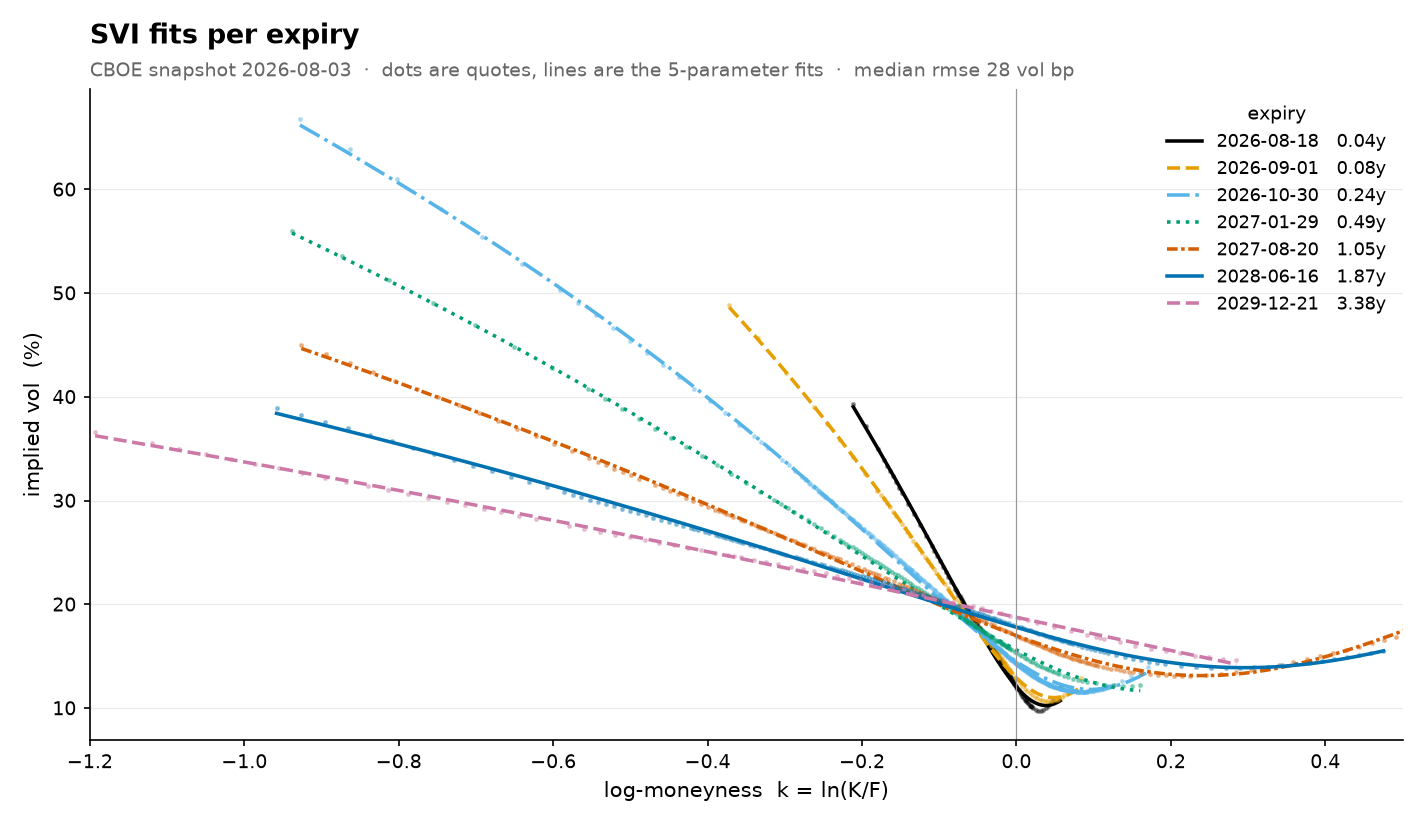
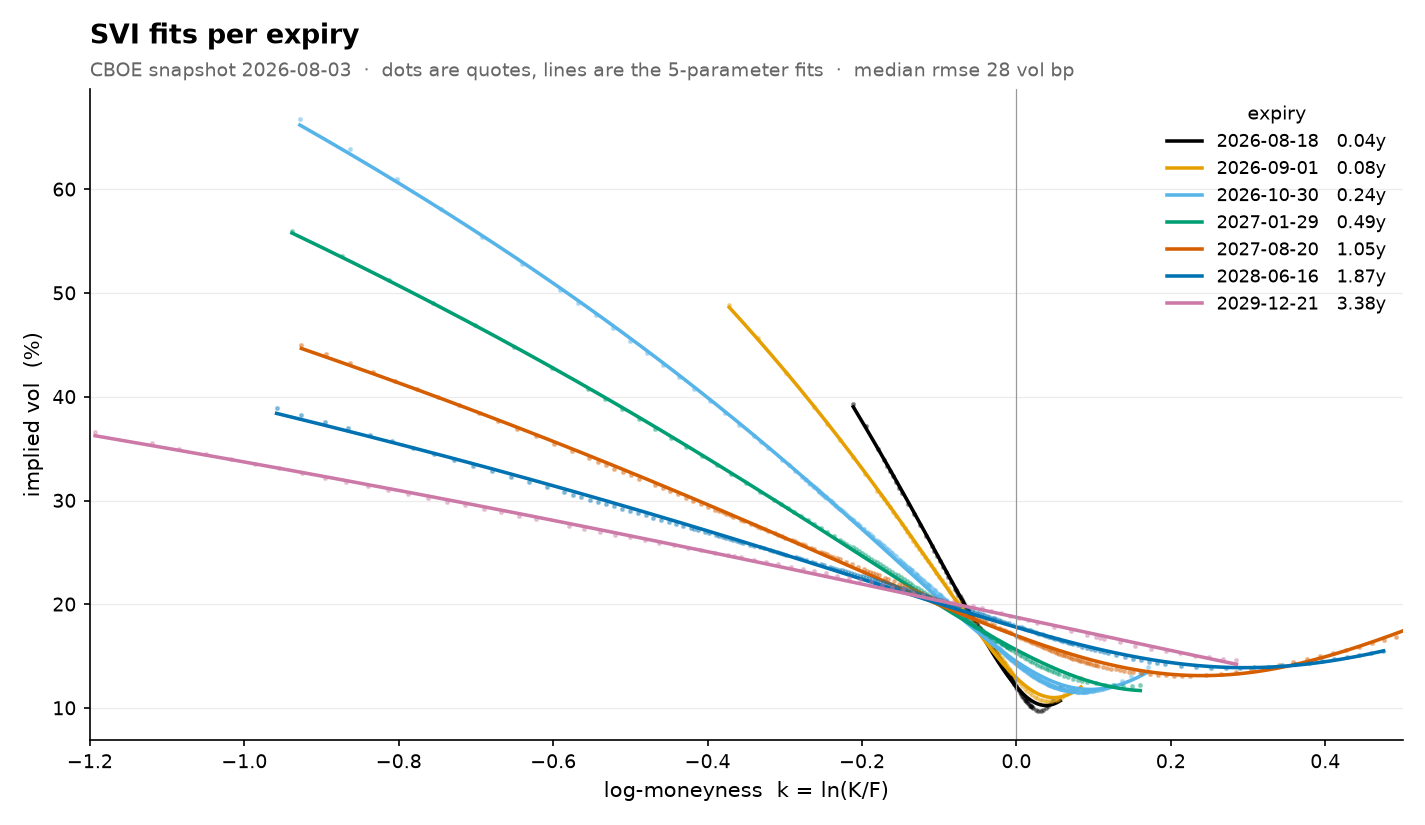
whole drafted Notebooks

diff --git a/src/svi/density.py b/src/svi/density.py
@@ -58,8 +58,8 @@ if __name__ == "__main__":
         qk = implied_density_k(k, p["a"], p["b"], p["rho"], p["m"], p["s"])
         # change of variable to index level: S = F*e^k, q_S = q_k / S
         S = F * np.exp(k)
-        c, _, dash = style_of(i)
-        ax.plot(S, qk / S * 1000, linestyle=dash, lw=1.8, color=c,
+        c = style_of(i)
+        ax.plot(S, qk / S * 1000, "-", lw=1.8, color=c,
                 label=f"{p['expiry'].date()}   {p['T']:.2f}y")
         mass = np.trapezoid(qk, k)
         print(f"T={p['T']:.2f}  density mass on quoted range: {mass:.3f}")
